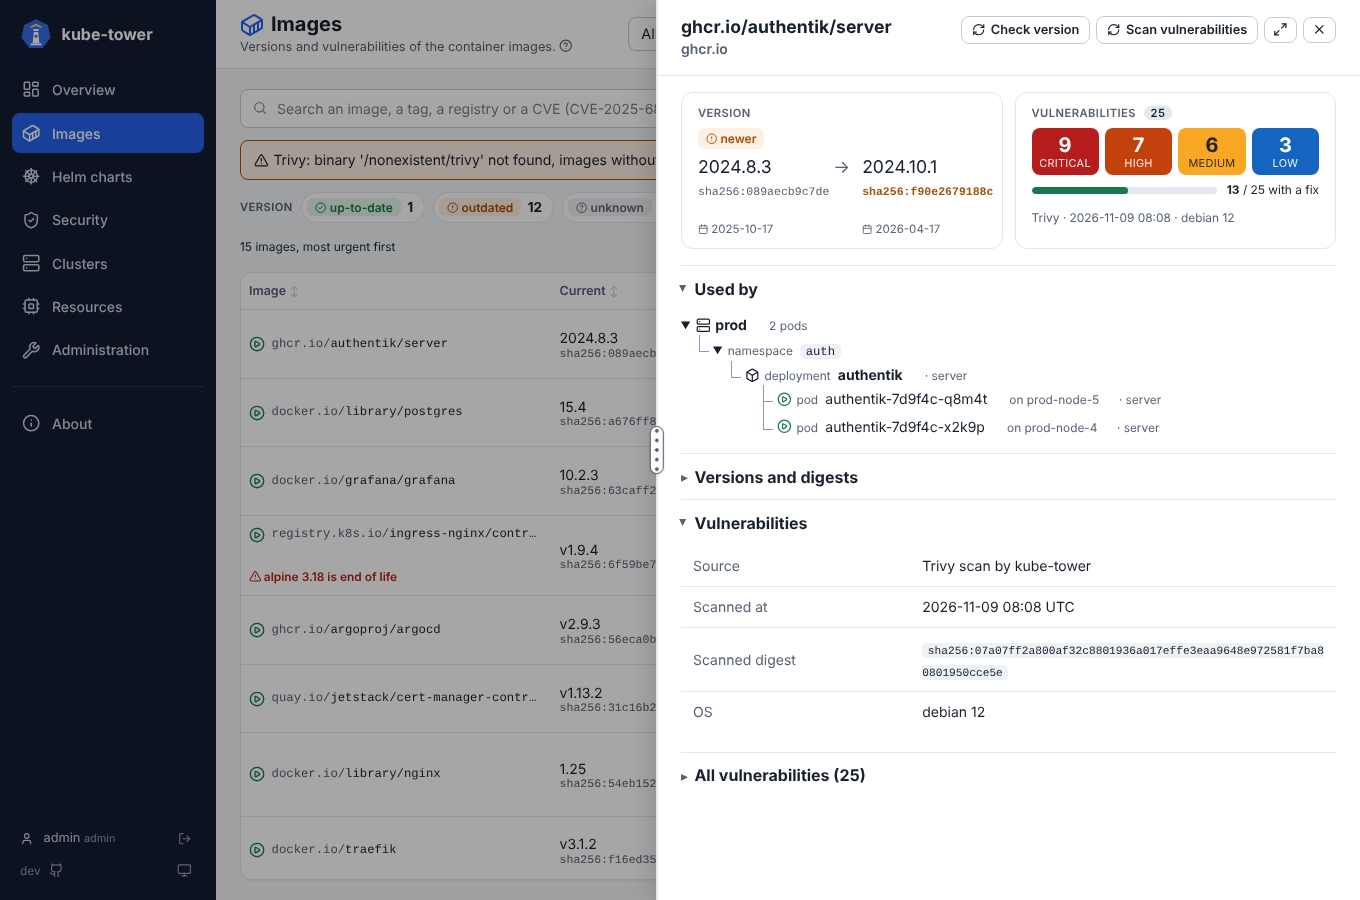
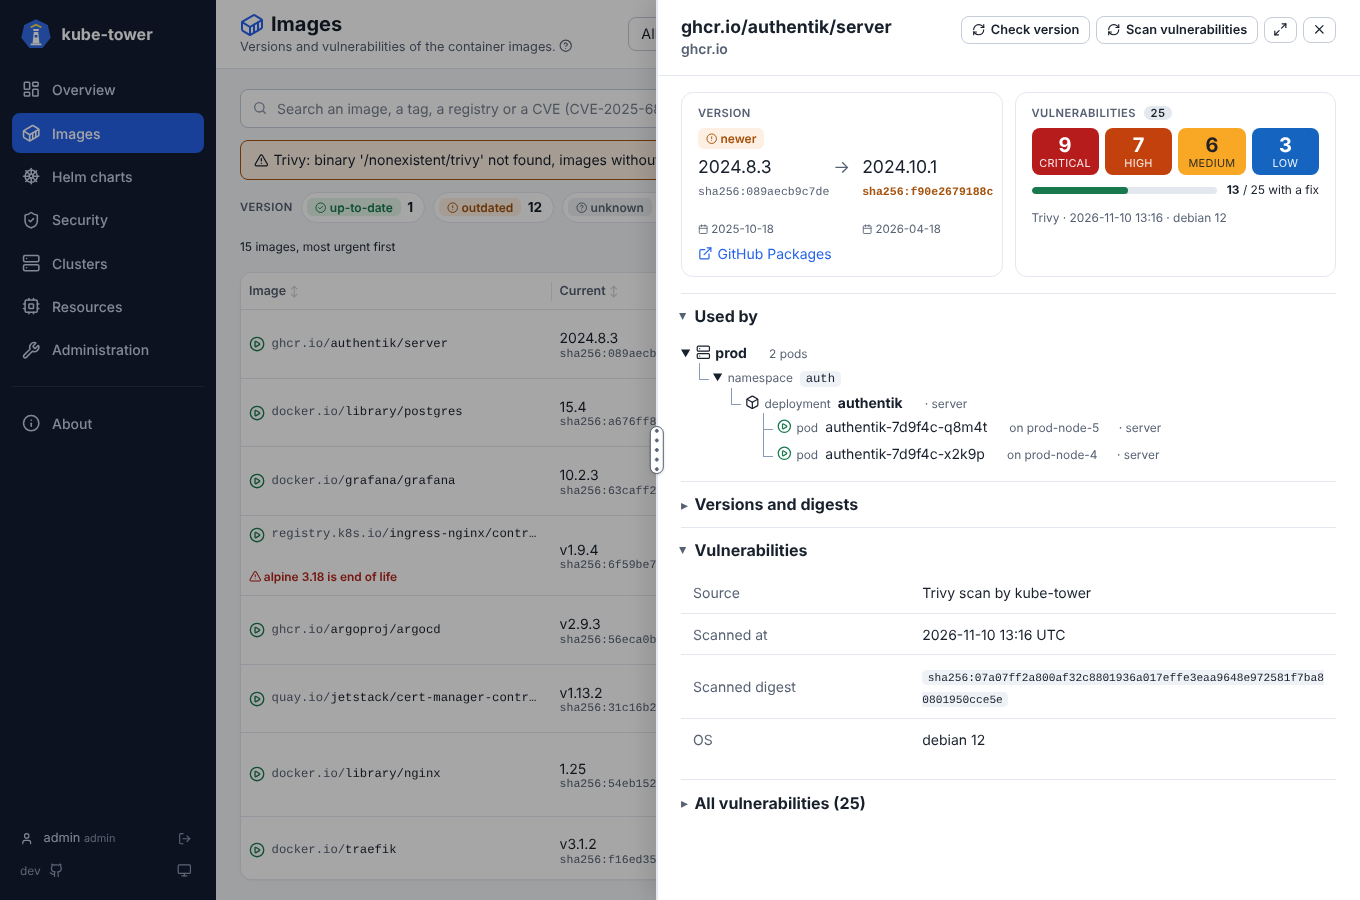
[ADD] Image details: registry and tags links in the version card; version 1.3.2 (#226)
Claude-Session: https://claude.ai/code/session_01RHrAN259RMfmXhb1PG9q7k

diff --git a/src/kube_tower/web/templates/_image_detail.html b/src/kube_tower/web/templates/_image_detail.html
@@ -43,6 +43,7 @@
     {% if r.image.is_latest %}
     <p class="tag-latest">{{ icon("warning") }}This image uses <code>latest</code> (or no tag): the running version changes on every pull. Pin a version instead.</p>
     {% endif %}
+    {{ links(registry_links(r.image)) }}
   </section>
   <section class="detail-card" aria-label="Vulnerabilities">
     <small class="counters-label">Vulnerabilities{% if v and v.vulnerabilities %} <span class="vuln-total">{{ v.vulnerabilities | length }}</span>{% endif %}</small>
@@ -119,7 +120,6 @@
 {% if r.running_digests and published and published not in r.running_digests %}
 <p><small>{{ icon("warning") }}The tag now points to another image than the one running: the tag was pushed again since the pods started.</small></p>
 {% endif %}
-{{ links(registry_links(r.image)) }}
 </details>
 
 <details class="drawer-section" open>

diff --git a/src/kube_tower/web/static/kube-tower.css b/src/kube_tower/web/static/kube-tower.css
@@ -493,6 +493,7 @@ tr.clickable:hover > td, tbody.clickable:hover td { background: var(--kt-hover);
 .close-detail { margin: 0; padding: .3rem .5rem; width: auto; }
 .close-detail .icon { margin: 0; }
 .links { display: flex; flex-wrap: wrap; gap: 1rem; }
+.detail-card .links { gap: .25rem 1rem; font-size: .875rem; }
 .digest { font-size: .8em; }
 .drawer-panel code { overflow-wrap: anywhere; }
 

diff --git a/tests/test_web.py b/tests/test_web.py
@@ -446,6 +446,9 @@ def test_image_detail():
     outside = js[js.index("A click beside the open panel") :]
     assert "e.stopPropagation();\n  ktCloseDetail();\n}, true);" in outside
     assert "https://hub.docker.com/_/redis/tags" in detail
+    # The registry links sit in the version card at the top, not in the folded sections
+    version_card = detail[detail.index('aria-label="Version"') : detail.index('aria-label="Vulnerabilities"')]
+    assert "https://hub.docker.com/_/redis/tags" in version_card and 'class="links"' in version_card
     assert "sha256:new" in detail and "Pin a version" in detail and "Versioning" not in detail
     detail = client.get("/images/detail", params={"ref": "docker.io/library/nginx:1.25"}).text
     assert "docker.io/library/nginx:1.27" in detail and "web-7d9f-abcde" in detail

diff --git a/README.md b/README.md
@@ -46,7 +46,7 @@ never updates anything, you stay in control of your GitOps workflow.
 | 🛡 **Vulnerabilities (CVE)** | Read from Trivy Operator reports when the cluster has them, else scanned with Trivy (copied into the pod by the chart, standalone or client/server). Find the images affected by a CVE in one search. |
 | 🔒 **Security (Trivy Operator)** | A Security page shows the other reports of Trivy Operator for every cluster: misconfigurations, secrets left in images, risky RBAC roles, nodes and control plane checks, and compliance (CIS, NSA, Pod Security Standards), with how to fix each finding. |
 | 📏 **CPU and memory sizing (krr)** | With `krr.enabled`, the chart runs [krr](https://github.com/robusta-dev/krr) in a pod of its own for every cluster: a Resources page lists the containers whose requests and limits are furthest from their real usage (from Prometheus), with totals per cluster (*2.5 CPU less to reserve*) and the resources block to paste in the manifest. Exported as metrics too. |
-| 🖥 **A UI made for triage** | Six pages: an Overview with a *To do* list (most urgent first), Images with their versions and vulnerabilities in one list (one search for names, tags and CVE IDs), Helm charts with their subchart tree (*not deployed* badge for the subcharts the values leave out), Security (Trivy Operator reports), Clusters (nodes, their versions and vulnerabilities), Resources (krr recommendations, when on), Administration. *Cluster* and *Running only* filters common to every page (on by default, *Running only* leaves out the images no pod runs), filters kept in the URL, sortable and resizable columns with fixed headers, lists loaded 30 rows at a time as you scroll, resizable or full screen detail panels (rescan buttons at the top, version and vulnerability summary cards, foldable sections: a cluster › namespace › workload › pod tree of where each image is used, digests, image size, registry links, subchart tree, CVE list; click a name, version or namespace to copy it; a click outside only closes the panel), per item rescan, live logs, light and dark themes, made for phones too (tab bar at the bottom). No CSS framework: about 35 KB of compressed static files. |
+| 🖥 **A UI made for triage** | Six pages: an Overview with a *To do* list (most urgent first), Images with their versions and vulnerabilities in one list (one search for names, tags and CVE IDs), Helm charts with their subchart tree (*not deployed* badge for the subcharts the values leave out), Security (Trivy Operator reports), Clusters (nodes, their versions and vulnerabilities), Resources (krr recommendations, when on), Administration. *Cluster* and *Running only* filters common to every page (on by default, *Running only* leaves out the images no pod runs), filters kept in the URL, sortable and resizable columns with fixed headers, lists loaded 30 rows at a time as you scroll, resizable or full screen detail panels (rescan buttons at the top, version (with the registry and tags links) and vulnerability summary cards, foldable sections: a cluster › namespace › workload › pod tree of where each image is used, digests, image size, subchart tree, CVE list; click a name, version or namespace to copy it; a click outside only closes the panel), per item rescan, live logs, light and dark themes, made for phones too (tab bar at the bottom). No CSS framework: about 35 KB of compressed static files. |
 | 🔐 **Registry authentication** | Per registry credentials, cloud identities (IRSA / EKS Pod Identity, GKE and AKS Workload Identity), reuse of the clusters' image pull secrets, private CAs. |
 | 🧰 **Administration** | State of every role and pod (distributed mode), rescan one item or what failed, update the Trivy database, test the connectivity to clusters and registries, see whether each registry accepts the credentials, follow the logs of every pod. Read-only: nothing is ever changed in the clusters. |
 | 🔑 **Login, SSO and roles** | Login the ArgoCD way: a built-in `admin` account with a generated password, local accounts, single sign-on with OpenID Connect (Authentik, Keycloak, Entra ID…) or with the Dex the chart can deploy (GitHub, LDAP, SAML…), with roles from the groups: a `readonly` role that sees everything, an `admin` role that also runs scans and actions, and your own roles with the permissions and clusters you choose, sessions any UI pod can serve, Basic auth for scripts. |

diff --git a/docs/ui-images.md b/docs/ui-images.md
@@ -40,7 +40,8 @@ Also shown:
 
 The [rescan](usage.md#rescan-one-image-or-chart) buttons sit at the top, next to the full screen and
 close buttons. Below, two cards side by side: the **version** (status, current → latest, each with its
-digest and release date) and the
+digest and release date, and the links to the page and the tags of the image on its registry: Docker Hub,
+GitHub Packages, Quay, ECR Public Gallery, Microsoft Artifact Registry) and the
 **vulnerabilities** (total, one tile per severity, a bar of how many have a fix, an end of life OS, and
 the source, date and OS of the scan). Then the sections, each
 folded or unfolded with a click on its title:
@@ -48,7 +49,7 @@ folded or unfolded with a click on its title:
 | Section | Opened | Content |
 | --- | --- | --- |
 | Used by | yes | Tree cluster › namespace › workload › pods, with nodes and containers; the nodes caching the image close each cluster |
-| Versions and digests | no | Reference, versioning scheme, latest tag, upgrade target, **size**; digests of the running pods, digest published for the same tag (different: the tag was pushed again), digest of the latest tag; links to the registry page |
+| Versions and digests | no | Reference, versioning scheme, latest tag, upgrade target, **size**; digests of the running pods, digest published for the same tag (different: the tag was pushed again), digest of the latest tag |
 | Vulnerabilities | yes | Source (Trivy Operator or Trivy), scan date, scanned digest, OS |
 | All vulnerabilities | no (yes after a CVE search) | Each one with severity, score, package, installed and fixed version, linked to its advisory |
 

diff --git a/CHANGELOG.md b/CHANGELOG.md
@@ -6,6 +6,11 @@ All notable changes to this project are documented here. The format follows
 
 ## [Unreleased]
 
+### Changed
+
+- Image details: the links to the image and its tags on the registry (Docker Hub, GitHub Packages, Quay...)
+  are in the **version** card at the top, instead of the end of the folded *Versions and digests* section.
+
 ## [1.3.1] - 2026-11-10
 
 ### Fixed
